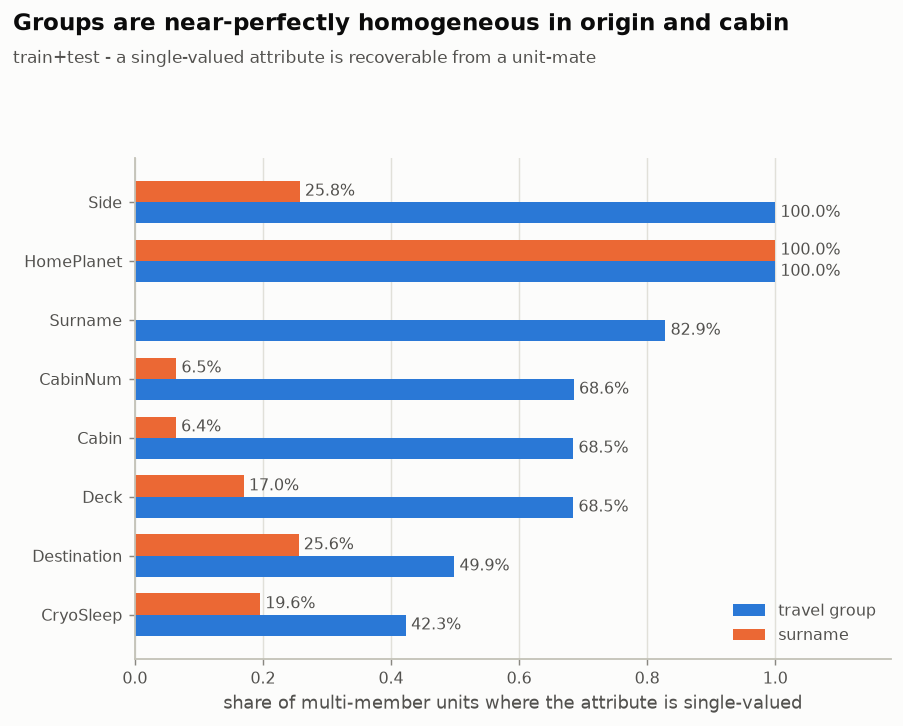
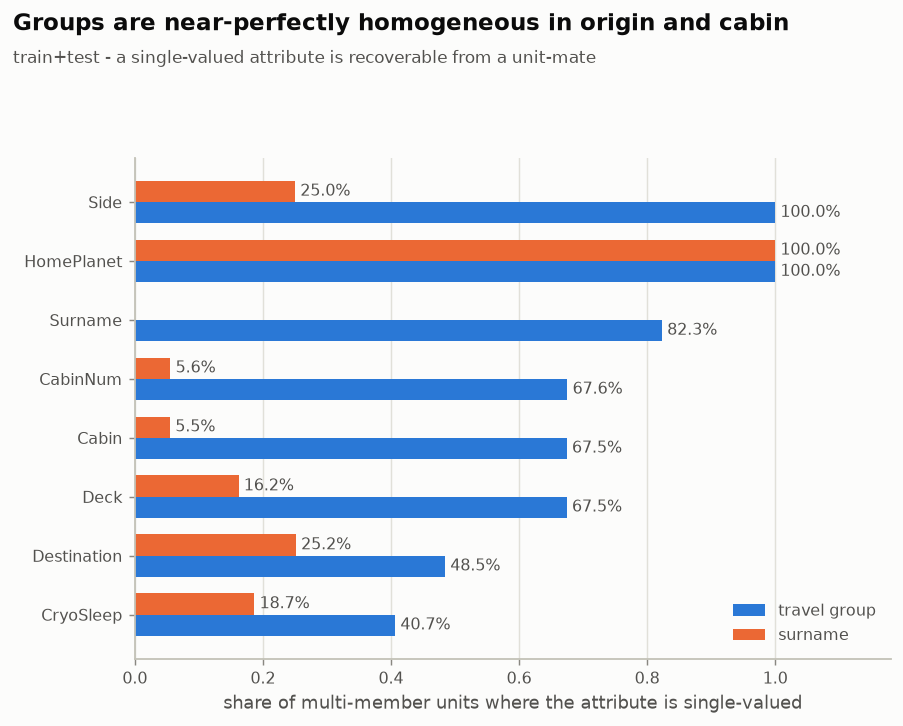
fix(analysis): correct cabin grouping, constancy denominator, add cluster bootstrap
Audit report items 3, 4, 6 and the "worth building" helper.

- 03_cabin.py grouped multi-member groups by CabinNum, but cabin numbers
  restart on every deck, so C/38/S and B/38/S scored as one shared cabin.
  Grouping by the full Cabin string gives 1,395 (67.5%) sharing one cabin
  and 673 split, which also resolves the 671-vs-673 contradiction against
  the deck-constancy count in FINDINGS.md.
- constancy() counted units with >=2 members but only >=1 observed value of
  the attribute, padding the denominator with units incapable of violating.
  It now requires two observed values and prints both denominators. The
  three 100% results survive; Deck/Destination/CryoSleep move 1.0-1.7pp.
- viz.cluster_bootstrap(): resamples whole clusters for statistics whose
  observations are not independent, relabelling each draw so a cluster drawn
  twice cannot collapse back into one. 02_groups.py uses it to put the
  interval finding 1 was missing on the cabin-minus-group difference.
- 03_side_by_deck.png title said "every single deck"; deck T is populated
  and reverses the sign.

Logs and the two affected figures regenerated.

diff --git a/src/02_groups.py b/src/02_groups.py
@@ -55,15 +55,57 @@ def pair_concordance(df, key):
     }
 
 
+def _pair_swing(codes, transported):
+    """Concordance swing from integer unit codes -- the vectorised twin of
+    `pair_concordance`'s swing, cheap enough to run thousands of times."""
+    k = np.bincount(codes).astype(float)
+    t = np.bincount(codes, weights=transported)
+    f = k - t
+    return ((t * (t - 1)).sum() / (t * (k - 1)).sum()
+            - (f * t).sum() / (f * (k - 1)).sum())
+
+
+def concordance_swings(df):
+    """Group and cabin concordance swings, and the difference between them.
+
+    Written as a single statistic over one frame because the quantity finding 1
+    actually needs an interval for is the *difference*, and the same passengers
+    sit in both terms. Bootstrapping the two swings separately would get the
+    variance of the difference wrong.
+
+    Expects columns Group / Cabin / TARGET. `Cabin` is nested inside `Group`,
+    so it is paired with the group id: under `viz.cluster_bootstrap` a group
+    drawn twice arrives as two ids, and its cabins must split with it rather
+    than collapsing back together.
+    """
+    y = df[TARGET].to_numpy(dtype=float)
+    gc = pd.factorize(df["Group"], sort=False)[0]
+    cab = df["Cabin"]
+    obs = cab.notna().to_numpy()
+    cab_code = pd.factorize(cab[obs], sort=False)[0]
+    nested = gc[obs].astype(np.int64) * (cab_code.max() + 1) + cab_code
+    cc = pd.factorize(nested, sort=False)[0]
+    group, cabin = _pair_swing(gc, y), _pair_swing(cc, y[obs])
+    return {"group": group, "cabin": cabin, "cabin_minus_group": cabin - group}
+
+
 def constancy(combined, key, attr):
-    """Share of multi-member `key` units where `attr` takes a single value."""
-    sub = combined[combined[key].notna() & combined[attr].notna()]
-    nun = sub.groupby(key, observed=True)[attr].nunique()
+    """Share of multi-member `key` units where `attr` takes a single value.
+
+    Only units with >=2 *observed* values of `attr` are testable. A two-person
+    group whose second member has a missing `HomePlanet` carries one distinct
+    value, scores as constant, and was never capable of violating constancy --
+    counting it pads the denominator with units that could not have failed.
+
+    Returns (share single-valued, testable units, multi-member units in frame).
+    """
     sizes = combined[combined[key].notna()].groupby(key, observed=True).size()
     multi = sizes[sizes >= 2].index
-    nun = nun[nun.index.isin(multi)]
-    nun = nun[nun > 0]
-    return (nun == 1).mean(), len(nun)
+    sub = combined[combined[key].isin(multi) & combined[attr].notna()]
+    g = sub.groupby(key, observed=True)[attr]
+    n_observed, nun = g.size(), g.nunique()
+    nun = nun[nun.index.isin(n_observed[n_observed >= 2].index)]
+    return (nun == 1).mean(), len(nun), len(multi)
 
 
 def recoverable(combined, key, attr):
@@ -152,6 +194,30 @@ def main():
               f"(all sizes: {rows[label]['p_mate_t_given_ego_t'] - rows[label]['p_mate_t_given_ego_f']:+.4f})")
     print("    -> the effect is not an artefact of large-group weighting")
 
+    # How big is the gap between the top two rows, and is it bigger than its
+    # own sampling error? The "pairs" are not independent observations -- one
+    # passenger sits in several of them -- so the unit resampled is the travel
+    # group, via viz.cluster_bootstrap.
+    print(f"\n  [uncertainty] cluster bootstrap over travel groups:")
+    cb = viz.cluster_bootstrap(
+        train.loc[train[TARGET].notna(), ["Group", "Cabin", TARGET]],
+        "Group", concordance_swings, reps=4000, seed=0)
+    print(f"    reps={cb.attrs['reps']}  seed={cb.attrs['seed']}  "
+          f"clusters resampled={cb.attrs['clusters']}  "
+          f"({int((1 - cb.attrs['alpha']) * 100)}% percentile intervals)")
+    for name in ["group", "cabin", "cabin_minus_group"]:
+        r = cb.loc[name]
+        print(f"    {name:18s} {r['point']:+.4f}  "
+              f"95% CI [{r['lo']:+.4f}, {r['hi']:+.4f}]  se={r['se']:.4f}")
+    diff = cb.loc["cabin_minus_group"]
+    print(f"    P(cabin swing > group swing) = {diff['p_positive']:.3f}")
+    print(f"    -> cabin vs group: the difference is INSIDE its own interval,")
+    print(f"       so the two are not distinguishable by this data.")
+    print(f"       group vs surname IS separated: the group interval "
+          f"[{cb.loc['group','lo']:+.4f}, {cb.loc['group','hi']:+.4f}] excludes")
+    print(f"       the surname point "
+          f"{rows['surname (family)']['p_mate_t_given_ego_t'] - rows['surname (family)']['p_mate_t_given_ego_f']:+.4f}.")
+
     conc = pd.DataFrame(rows).T
     chance = base**2 + (1 - base) ** 2
     fig, ax = plt.subplots(figsize=(7.5, 3.6))
@@ -181,11 +247,17 @@ def main():
                      "Destination", "Surname", "CryoSleep"]:
             if attr == key:
                 continue
-            share, n = constancy(combined, key, attr)
+            share, n_test, n_multi = constancy(combined, key, attr)
             const_rows.append({"unit": key, "attr": attr,
-                               "units_tested": n, "single_valued": share})
+                               "units_multi": n_multi, "units_tested": n_test,
+                               "untestable": n_multi - n_test,
+                               "single_valued": share})
     const = pd.DataFrame(const_rows)
     print(const.round(4).to_string(index=False))
+    print("  units_multi  = multi-member units of this kind in the frame")
+    print("  units_tested = those with >=2 OBSERVED values of the attribute,")
+    print("                 i.e. the only ones that could have violated it.")
+    print("  -> the 100% results below hold on a denominator that could have broken them.")
 
     piv = const.pivot(index="attr", columns="unit", values="single_valued")
     piv = piv.sort_values("Group", ascending=True)

diff --git a/src/viz.py b/src/viz.py
@@ -157,3 +157,116 @@ def rate_table(df, by, target="Transported", min_n=0):
     out["lo"], out["hi"] = lo, hi
     out["ci_width"] = out["hi"] - out["lo"]
     return out[out["n"] >= min_n]
+
+
+def cluster_bootstrap(df, cluster, statistic, reps=2000, seed=0, alpha=0.05):
+    """Percentile bootstrap interval for a statistic whose unit is not the row.
+
+    `wilson()` above is the right tool for a proportion over independent
+    observations. This is the tool for the case where the observations are
+    *not* independent because they share a cluster -- and finding 1 is exactly
+    that case. Its 3,323 cabin "pairs" come from 3,067 passengers, each of whom
+    appears in several pairs, so treating the pairs as 3,323 independent
+    observations (or attaching a textbook standard error to them) reports an
+    interval far narrower than the data earns. Resampling whole clusters keeps
+    the dependence intact.
+
+    df         frame whose rows are observations
+    cluster    column naming the independent unit to resample (e.g. "Group")
+    statistic  callable(frame) -> float, or -> dict of named floats
+    reps, seed fixed by default, so the interval is reproducible run to run
+
+    `statistic` is handed a resampled copy of `df` whose `cluster` column has
+    been REPLACED by a fresh integer id per draw. A cluster drawn twice
+    therefore arrives under two ids rather than collapsing back into one --
+    that collapse is the classic cluster-bootstrap bug and it silently narrows
+    the interval. Any key nested inside the cluster (`Cabin` inside `Group`)
+    must be paired with that id by the statistic, for the same reason.
+
+    Returns a DataFrame indexed by statistic name with columns point, lo, hi,
+    se, and `reps` / `seed` / `alpha` / `clusters` recorded in `.attrs`.
+    """
+    import pandas as pd
+
+    rng = np.random.default_rng(seed)
+    sub = df[df[cluster].notna()]
+    order = np.argsort(sub[cluster].to_numpy(), kind="stable")
+    counts = sub.groupby(cluster, observed=True).size().sort_index().to_numpy()
+    starts = np.concatenate(([0], np.cumsum(counts)[:-1]))
+    n_clusters = len(counts)
+
+    def _as_dict(value):
+        return value if isinstance(value, dict) else {"statistic": float(value)}
+
+    point = _as_dict(statistic(df))
+    draws = {name: np.empty(reps) for name in point}
+
+    for r in range(reps):
+        pick = rng.integers(0, n_clusters, n_clusters)
+        lens = counts[pick]
+        # Ragged gather, vectorised: offset each drawn block into a flat range.
+        flat = np.arange(lens.sum()) + np.repeat(
+            starts[pick] - np.concatenate(([0], np.cumsum(lens)[:-1])), lens)
+        rep = sub.iloc[order[flat]].copy()
+        rep[cluster] = np.repeat(np.arange(n_clusters), lens)  # fresh id per DRAW
+        for name, value in _as_dict(statistic(rep)).items():
+            draws[name][r] = value
+
+    lo_q, hi_q = 100 * alpha / 2, 100 * (1 - alpha / 2)
+    out = pd.DataFrame({
+        "point": pd.Series(point),
+        "lo": {k: np.percentile(v, lo_q) for k, v in draws.items()},
+        "hi": {k: np.percentile(v, hi_q) for k, v in draws.items()},
+        "se": {k: v.std(ddof=1) for k, v in draws.items()},
+        "p_positive": {k: float((v > 0).mean()) for k, v in draws.items()},
+    })
+    out.attrs.update(reps=reps, seed=seed, alpha=alpha, clusters=n_clusters,
+                     draws=draws)
+    return out
+
+
+def _selftest():
+    """Behavioural checks for cluster_bootstrap. Run: python src/viz.py
+
+    No test runner is configured in this project, so these live here rather
+    than pulling in test infrastructure the analysis does not otherwise need.
+    """
+    import pandas as pd
+
+    # 20 clusters of 50 identical rows. Every row in a cluster carries the same
+    # value, so the effective sample size is 20, not 1,000. A row-level
+    # bootstrap would report an SE ~sqrt(50) too small; clustering must not.
+    rng = np.random.default_rng(7)
+    values = rng.normal(size=20)
+    df = pd.DataFrame({"unit": np.repeat(np.arange(20), 50),
+                       "x": np.repeat(values, 50)})
+    out = cluster_bootstrap(df, "unit", lambda d: d["x"].mean(),
+                            reps=1500, seed=1)
+    se_cluster = values.std(ddof=1) / np.sqrt(20)
+    se_rows = df["x"].std(ddof=1) / np.sqrt(len(df))
+    got = out.loc["statistic", "se"]
+    assert abs(got - se_cluster) < 0.25 * se_cluster, \
+        f"clustered se {got:.4f} should track {se_cluster:.4f}"
+    assert got > 3 * se_rows, \
+        f"clustered se {got:.4f} must exceed the row-level {se_rows:.4f}"
+
+    # Each DRAW must get its own id, so a cluster drawn twice counts twice.
+    # Without the relabelling a groupby collapses the duplicate and the
+    # interval comes out too narrow.
+    seen = cluster_bootstrap(df, "unit", lambda d: d["unit"].nunique(),
+                             reps=50, seed=2)
+    assert seen.loc["statistic", "point"] == 20
+    assert seen.attrs["draws"]["statistic"].min() == 20, \
+        "duplicated clusters collapsed instead of being relabelled"
+
+    # Reproducible: same seed, same interval.
+    a = cluster_bootstrap(df, "unit", lambda d: d["x"].mean(), reps=200, seed=3)
+    b = cluster_bootstrap(df, "unit", lambda d: d["x"].mean(), reps=200, seed=3)
+    assert a["lo"].equals(b["lo"]) and a["hi"].equals(b["hi"])
+
+    print("viz._selftest: cluster_bootstrap OK "
+          f"(clustered se={got:.4f} vs row-level {se_rows:.4f})")
+
+
+if __name__ == "__main__":
+    _selftest()

diff --git a/src/03_cabin.py b/src/03_cabin.py
@@ -156,8 +156,9 @@ def main():
     viz.clean(ax)
     viz.baseline_ref(ax, base, f"marginal {base:.1%}")
     viz.save(fig, "03_side_by_deck",
-             "Starboard beats port on every single deck",
-             f"train only, cells with n>=30 - overall S {rs.loc['S','rate']:.1%} vs P {rs.loc['P','rate']:.1%}")
+             "Starboard beats port on seven of the eight populated decks",
+             f"train only, cells with n>=30 (deck T has 5 train rows, excluded) - "
+             f"overall S {rs.loc['S','rate']:.1%} vs P {rs.loc['P','rate']:.1%}")
 
     # ---- cabin number geometry (COMBINED) ---------------------------------
     print(f"\n[cabin number geometry] frame=combined")
@@ -165,9 +166,14 @@ def main():
     print(cn.groupby("Deck", observed=True)["CabinNum"]
           .agg(["size", "min", "max", "median"]).to_string())
 
+    # Count distinct cabins by the FULL `Cabin` string, not by `CabinNum`.
+    # Cabin numbers restart on every deck, so C/38/S and B/38/S share a
+    # *number* and not a cabin; nunique on CabinNum scores them as cohabiting.
+    # The numeric span below stays on CabinNum, which is the only numeric part.
     gg = (combined.dropna(subset=["CabinNum"])
-          .groupby("Group", observed=True)["CabinNum"]
-          .agg(["size", "nunique", "min", "max"]))
+          .groupby("Group", observed=True)
+          .agg(size=("CabinNum", "size"), nunique=("Cabin", "nunique"),
+               min=("CabinNum", "min"), max=("CabinNum", "max")))
     gg = gg[gg["size"] >= 2]
     span = (gg["max"] - gg["min"])
     shared = gg["nunique"] == 1
